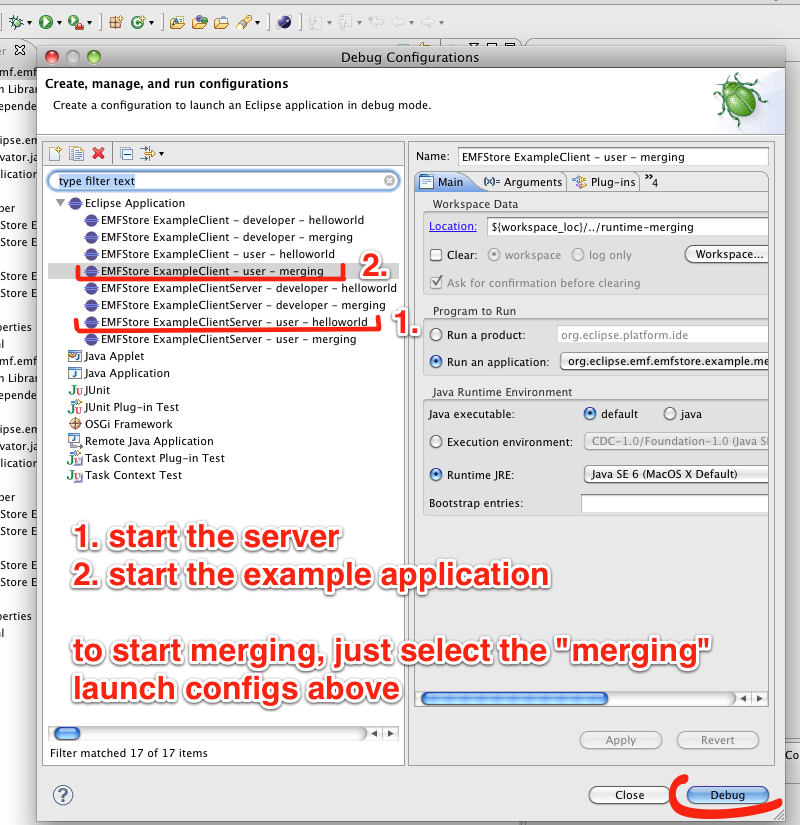
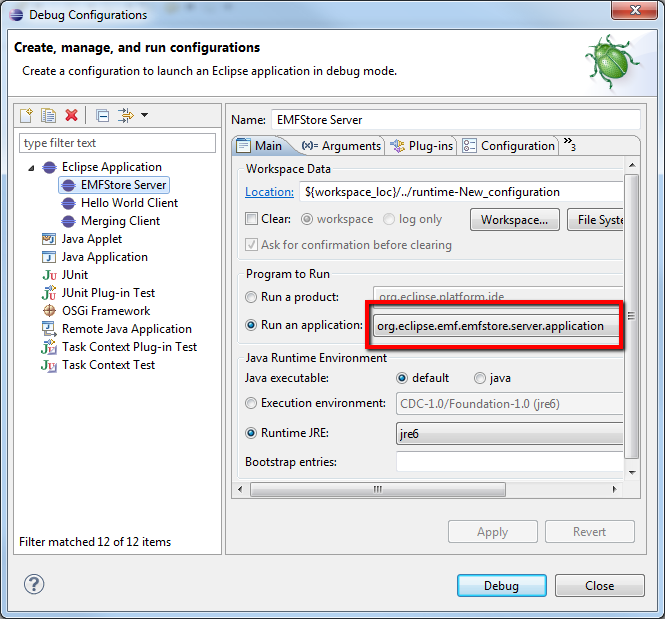
changed example docu

diff --git a/documentation/_howToUseExamples.html b/documentation/_howToUseExamples.html
@@ -56,7 +56,7 @@ Just use the &quot;New example wizard&quot; and all steps are done automatically
 <br><br><img src="images/emfstore-examples-newexample-wizard-1.png" style="height: 386px; width: 387px; "><br><br>And as a result, the project will be created in the workspace.<br><br><br><img src="images/emfstore-examples-projectstructure.png" style="height: 421px; width: 658px; "><br><br>
 <b>Step 3: Project structure</b>
 <p>
-The structure of the example project is really simple. The source folder contains the example application. <br>All required launchconfigs to run the example are contained in the launch folder.<br>You have to decide between launchconfigs for developers and launch configs for users. If you have been following the steps above, the &quot;user launchconfigs&quot; are responsible for you. But if you are using a clone of the git respository, then you have to use the developer launch configs.
+The structure of the example project is really simple. The source folder contains the example application. It can be started like any other Eclipse application. If you want to follow the different steps more in details, set break point in the Application.java class.
 </p>
 
 <b>Step 4: Run  the example client</b>
@@ -66,7 +66,16 @@ To run the example, you have to process two steps.
 	<ul>
 		<li>Run the EMFStore server</li>
 		<li>Run the EMFStore example</li>
-	</ul>To run the server, just run the launchconfig of the appropriate  example. To start the server of the helloworld example, run the launchconfig &quot;EMFStore ExampleClientServer - user - helloworld.launch&quot;.<br>And to run the example itself, start &quot;EMFStore ExampleClient - user - helloworld.launch&quot;<br><br><br>
+	</ul>
+	To run the server, just create a new Run Configuration, select the application "org.eclipse.emf.emfstore.server.application" and run the server. To have a clean set-up you might want to delete the .emfstore folder in your home directory, this is the place where EMFStore will store its data per default. 
+	</br>
+	To start one of the clients create another Run Configuration and select either:
+	
+	<ul>
+		<li>org.eclipse.emf.emfstore.example.helloworld.example</li>
+		<li>org.eclipse.emf.emfstore.example.merging.merging</li>
+	</ul>
+	
 	
 	<img src="images/emfstore-examples-launchconfigs.png" style="height: 573px; width: 556px; ">
 <br>
